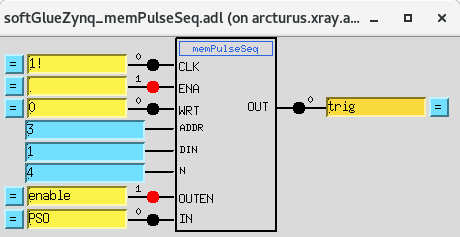
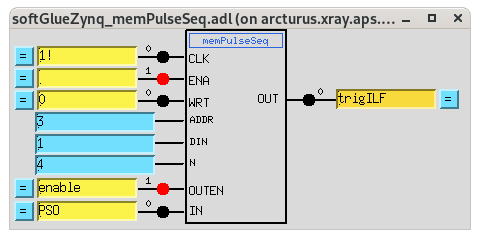
update softGlue

diff --git a/docs/source/ops/item_060.rst b/docs/source/ops/item_060.rst
@@ -69,4 +69,15 @@ The screen for the new component is found by going to softGlueZynqMenu -> Develo
 
    New component
 
-After the array is loaded with python, setting enable on memPulseSeq to 1 is what primes the component. So it will trigger based on the subsequent PSO pulses it receives. Setting enable back to 0 resets the component.  
+After the array is loaded with python, setting enable on memPulseSeq to 1 is what primes the component. So it will trigger based on the subsequent PSO pulses it receives. Setting enable back to 0 resets the component.
+
+To enable the use of the direct PSO pulses to trigger the detector or the the new interlaced sequence generated by the write_PSO_array()routine we configured a multiplexer(MUX2-1) setting input0 = PSO and input1 trifILF. In this was we can set the multiplex select PV to 0 or 1 to choose what we send to the camera trigger.
+
+::
+   To use the PSO:
+   [2bmb@arcturus]$ caput 2bmbMZ1:SG:MUX2-1_SEL_Signal 0 
+
+   To use the trigILF:
+   [2bmb@arcturus]$ caput 2bmbMZ1:SG:MUX2-1_SEL_Signal 1
+
+
